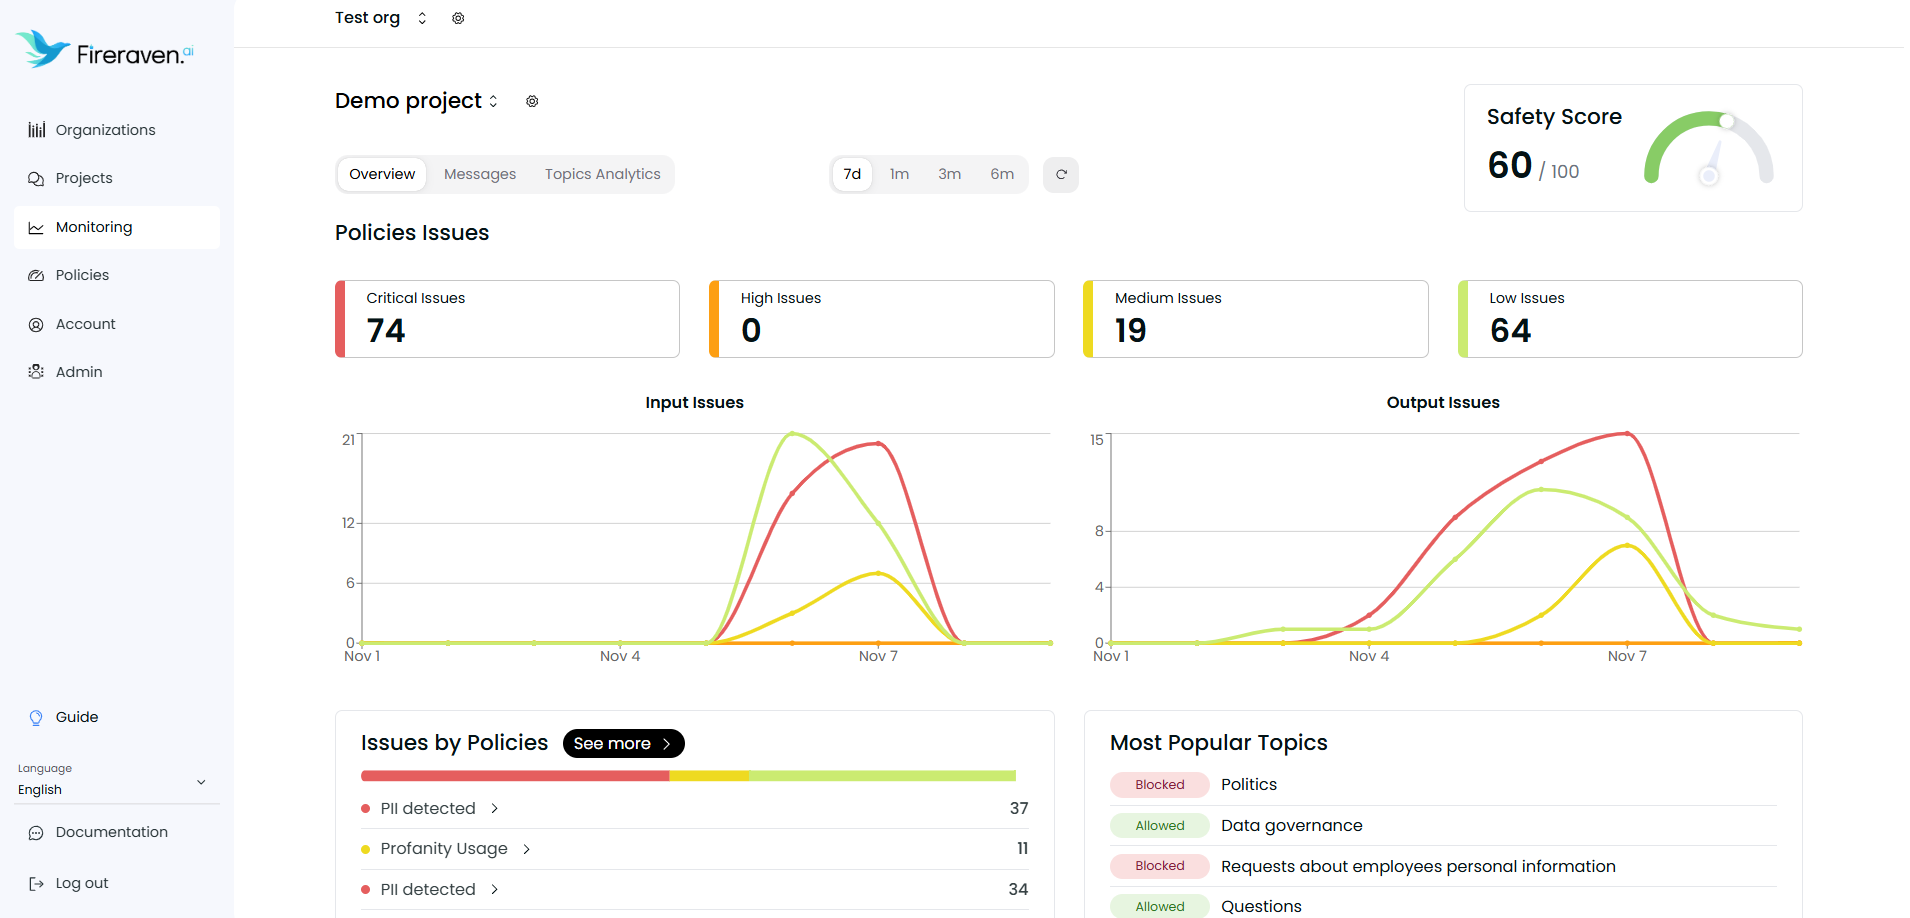
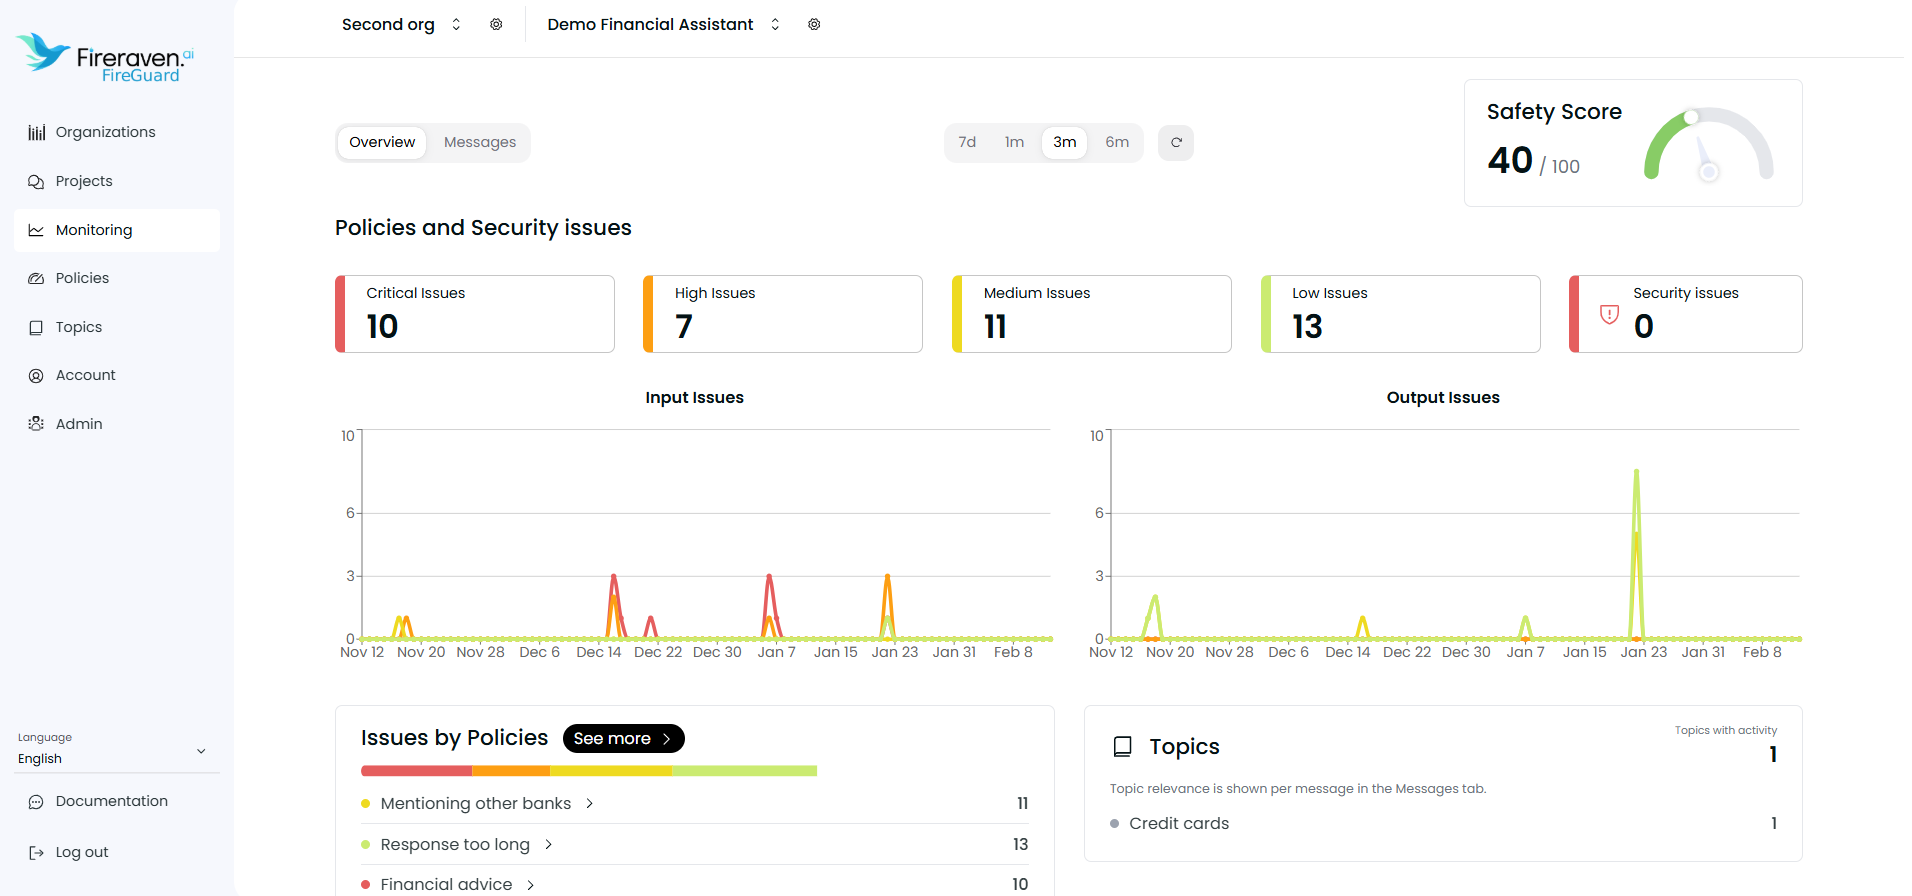
update README with new version

diff --git a/README.md b/README.md
@@ -52,7 +52,18 @@ Here is the documentation of FireGuard: https://doc.fireraven.ai/
    OPENAI_API_KEY=your_openai_api_key_here
    ```
 
-6. **Configure your FireGuard Topics Guardrail (Input Guardrail)**
+6. **Configure your FireGuard Security Guardrail (Input and Output Guardrails)**
+- Go to `Projects` on the left side menu and click on the `Settings` of the project you want to configure
+- Select the `Security Guardrail`
+
+![Security Guardrail configuration](images/image-11.png)
+
+- Configure if the security guardrail is applied to the Input and/or Output of the AI agent.
+- Configure the sensitivity of the security guardrail.
+   - Very restrictive will block more prompts (to block more prompts, potentially blocking some safe prompts that look malicious).
+   - Very permissive will block less prompts (to allow more prompts, even though some less malicious prompts can still be allowed).
+
+<!-- 6. **Configure your FireGuard Topics Guardrail (Input Guardrail)**
 - Go to `Projects` on the left side menu and click on the `Settings` of the project you want to configure
 - Select the `Topics Guardrail`
 ![Topics Guardrail configuration](images/image-4.png)
@@ -74,7 +85,7 @@ Here is the documentation of FireGuard: https://doc.fireraven.ai/
    - Safe/Unsafe: a toggle to configure if the topic is safe or unsafe
    - Sensitivity: a slider to configure how permissive or restrictive the topic should be (A more permissive setting allows requests that differ more from the original questions. A more restrictive setting blocks requests that aren’t sufficiently similar.)
    - Accuracy: the accuracy is measured as the percentage of Validation Questions (simulating real users) that can be answered from the list of Questions, with the Sensitivity configured
-- Once the configuration of the topic is done, click on `Save`
+- Once the configuration of the topic is done, click on `Save` -->
 
 
 7. **Configure your FireGuard Policies Guardrail (Input and Output Guardrails)**
@@ -101,7 +112,28 @@ Here is the documentation of FireGuard: https://doc.fireraven.ai/
 ![Configure policies for a project](images/image-9.png)
 
 
-8. **Monitor the project**
+8. **Configure the Topics analytics**
+- Go to the `Topics` on the left side menu
+![Topics page](images/image-12.png)
+- To create a new topic, click on the `Add Topic` button
+![Create new topic](images/image-13.png)
+- In the interface to configure a topic you can see multiple things:
+   - Name: The topic name should provide an immediate understanding of the topic at a glance.
+   - Description: This description is essential for our system to accurately identify when a message is related to the topic. The more precise the description, the more accurate the topic identification will be.
+   - Test your topic: To validate the topic identification directly from the configuration interface.
+- Once the topic is configured, you can click on `Create`
+- To add a topic to a project, you can click on the green icon at the bottom right of a topic
+
+![Add topic to project](images/image-14.png)
+- You can also add a topic from the Project configuration page:
+   - Go to `Projects` and click on the `Settings` of the project you want to configure
+   - Select the `Topics` tab
+   - Click on the field `Add topic to project` to search for a topic to add to the project
+- In the Project configuration page, you can also configure if the topics are to be applied to the Input or Output or both. For example, a topic only applied to the input will only be triggered if the input message (from the user, sent to the assistant) is related to the topic, but the topic won't look at the output message (from the assistant, back to the user).
+![Configure topics for a project](images/image-15.png)
+
+
+9. **Monitor the project**
 - Go to the `Monitoring` on the left side menu
 ![Monitoring page](images/image-10.png)
 - In the overview tab, you can see the issues detected related to the policies and the topics
